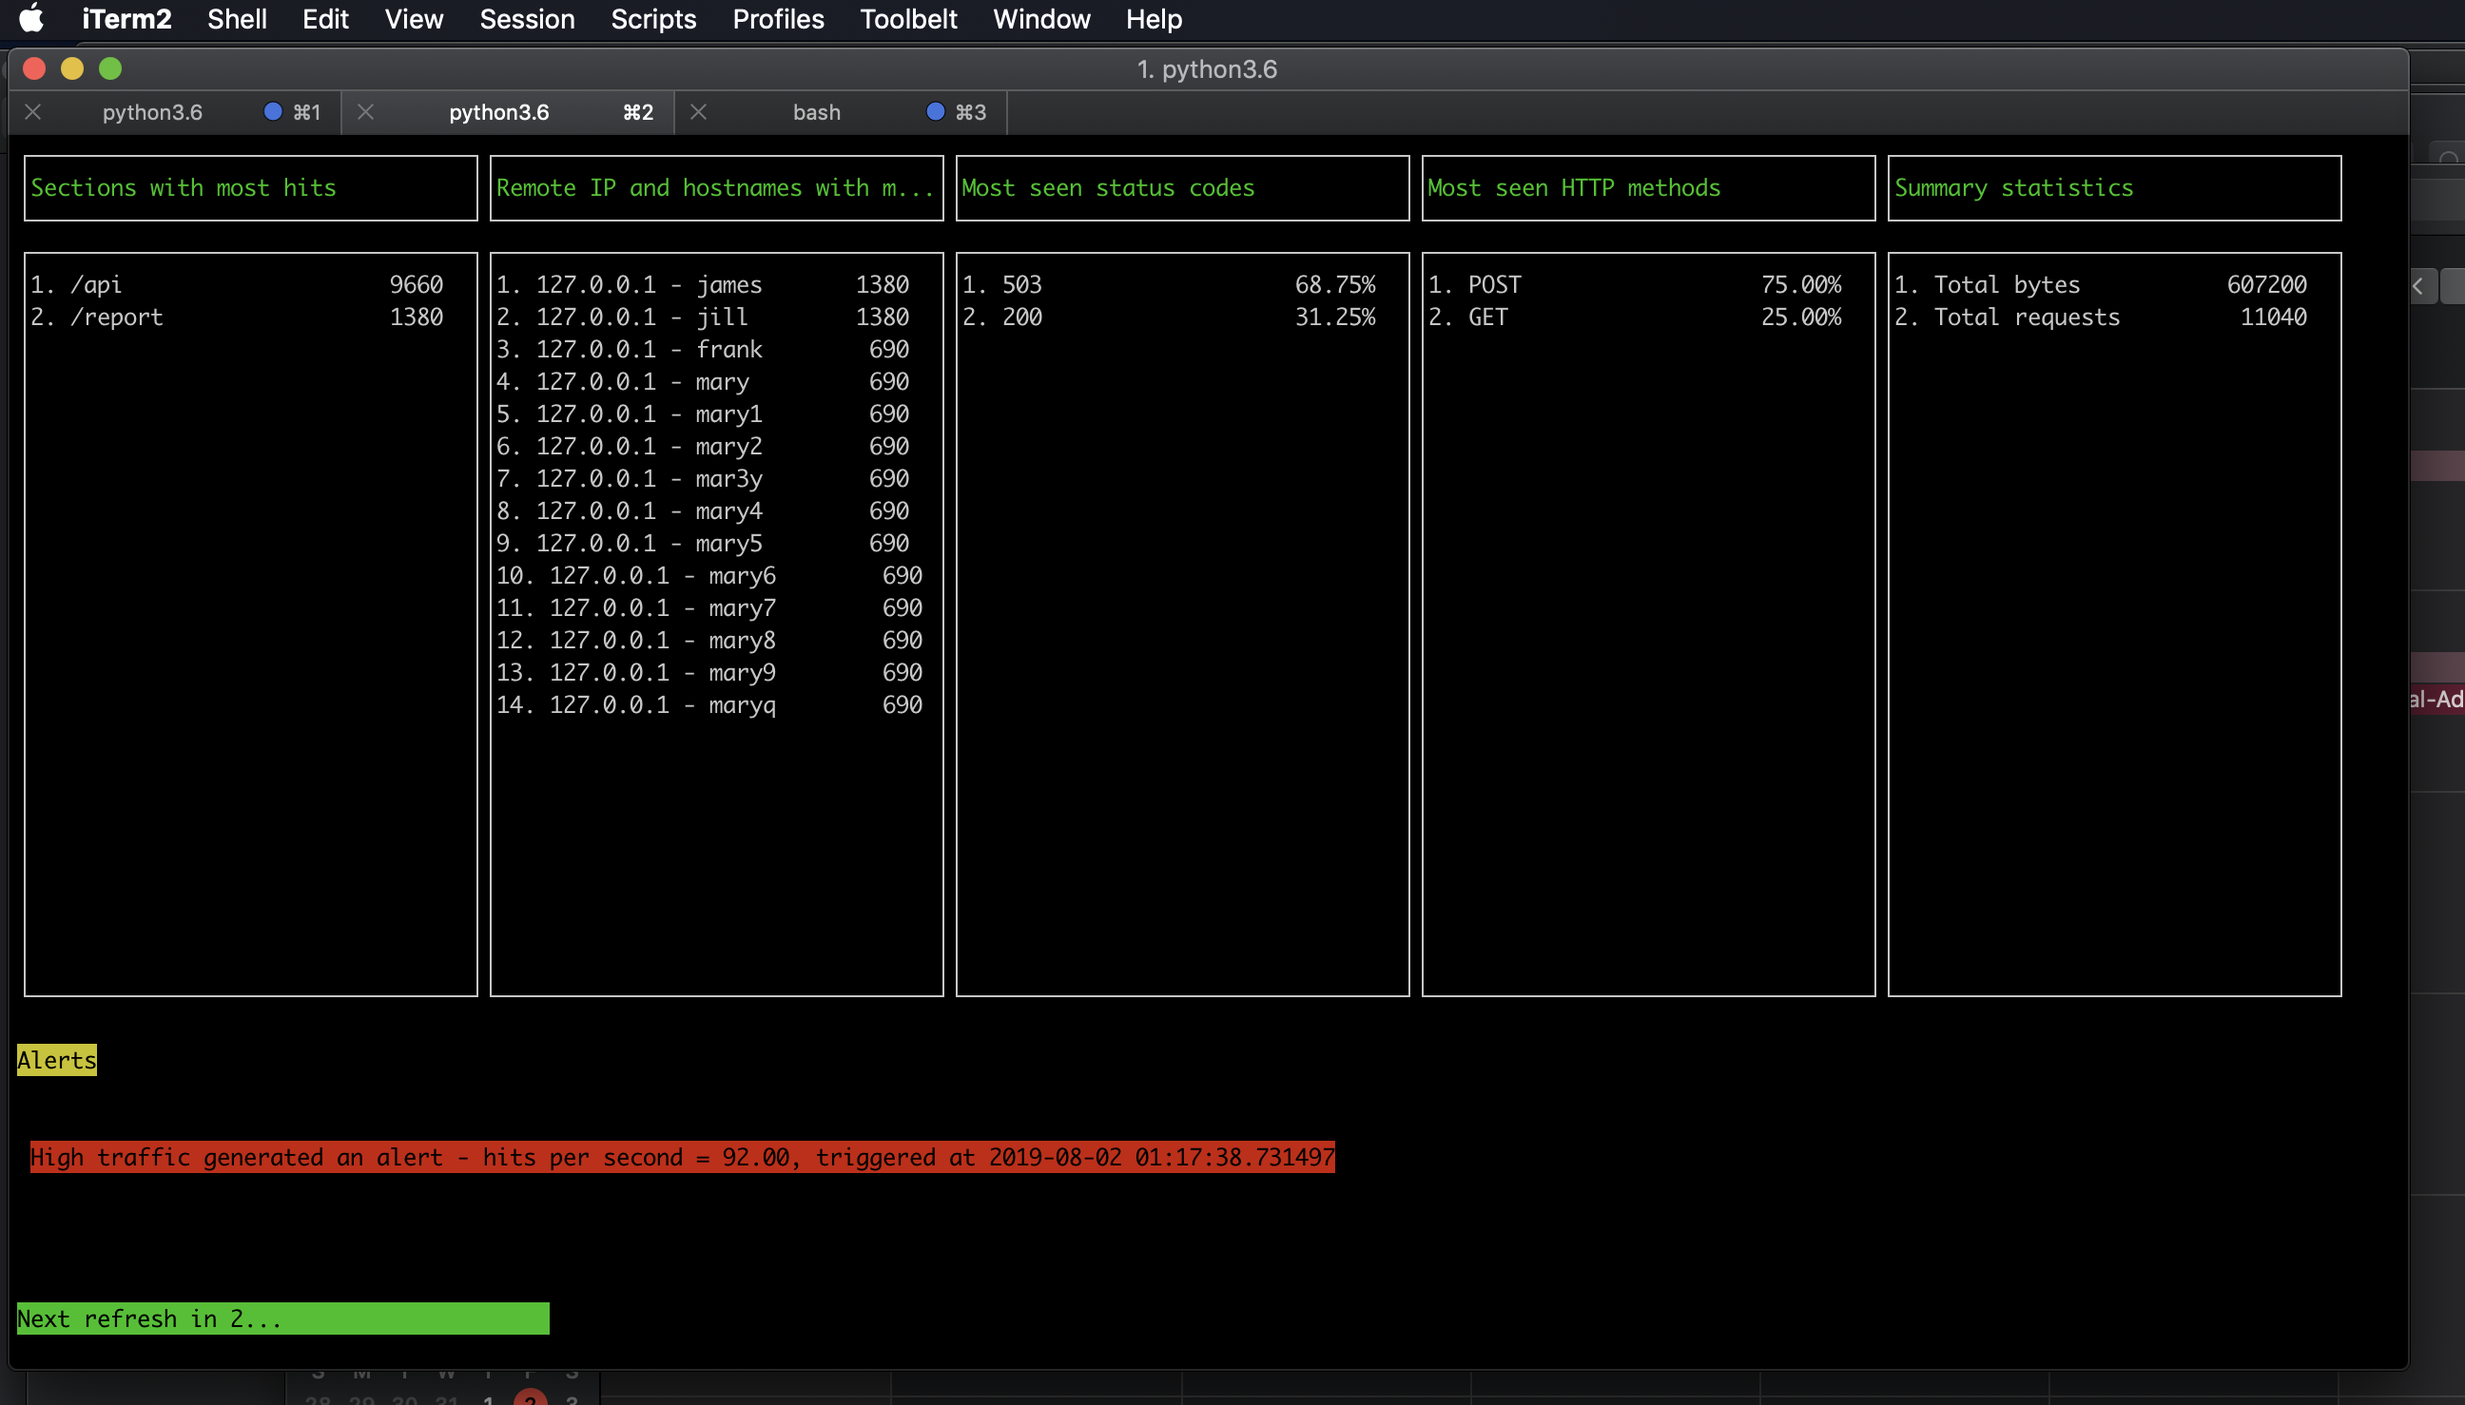
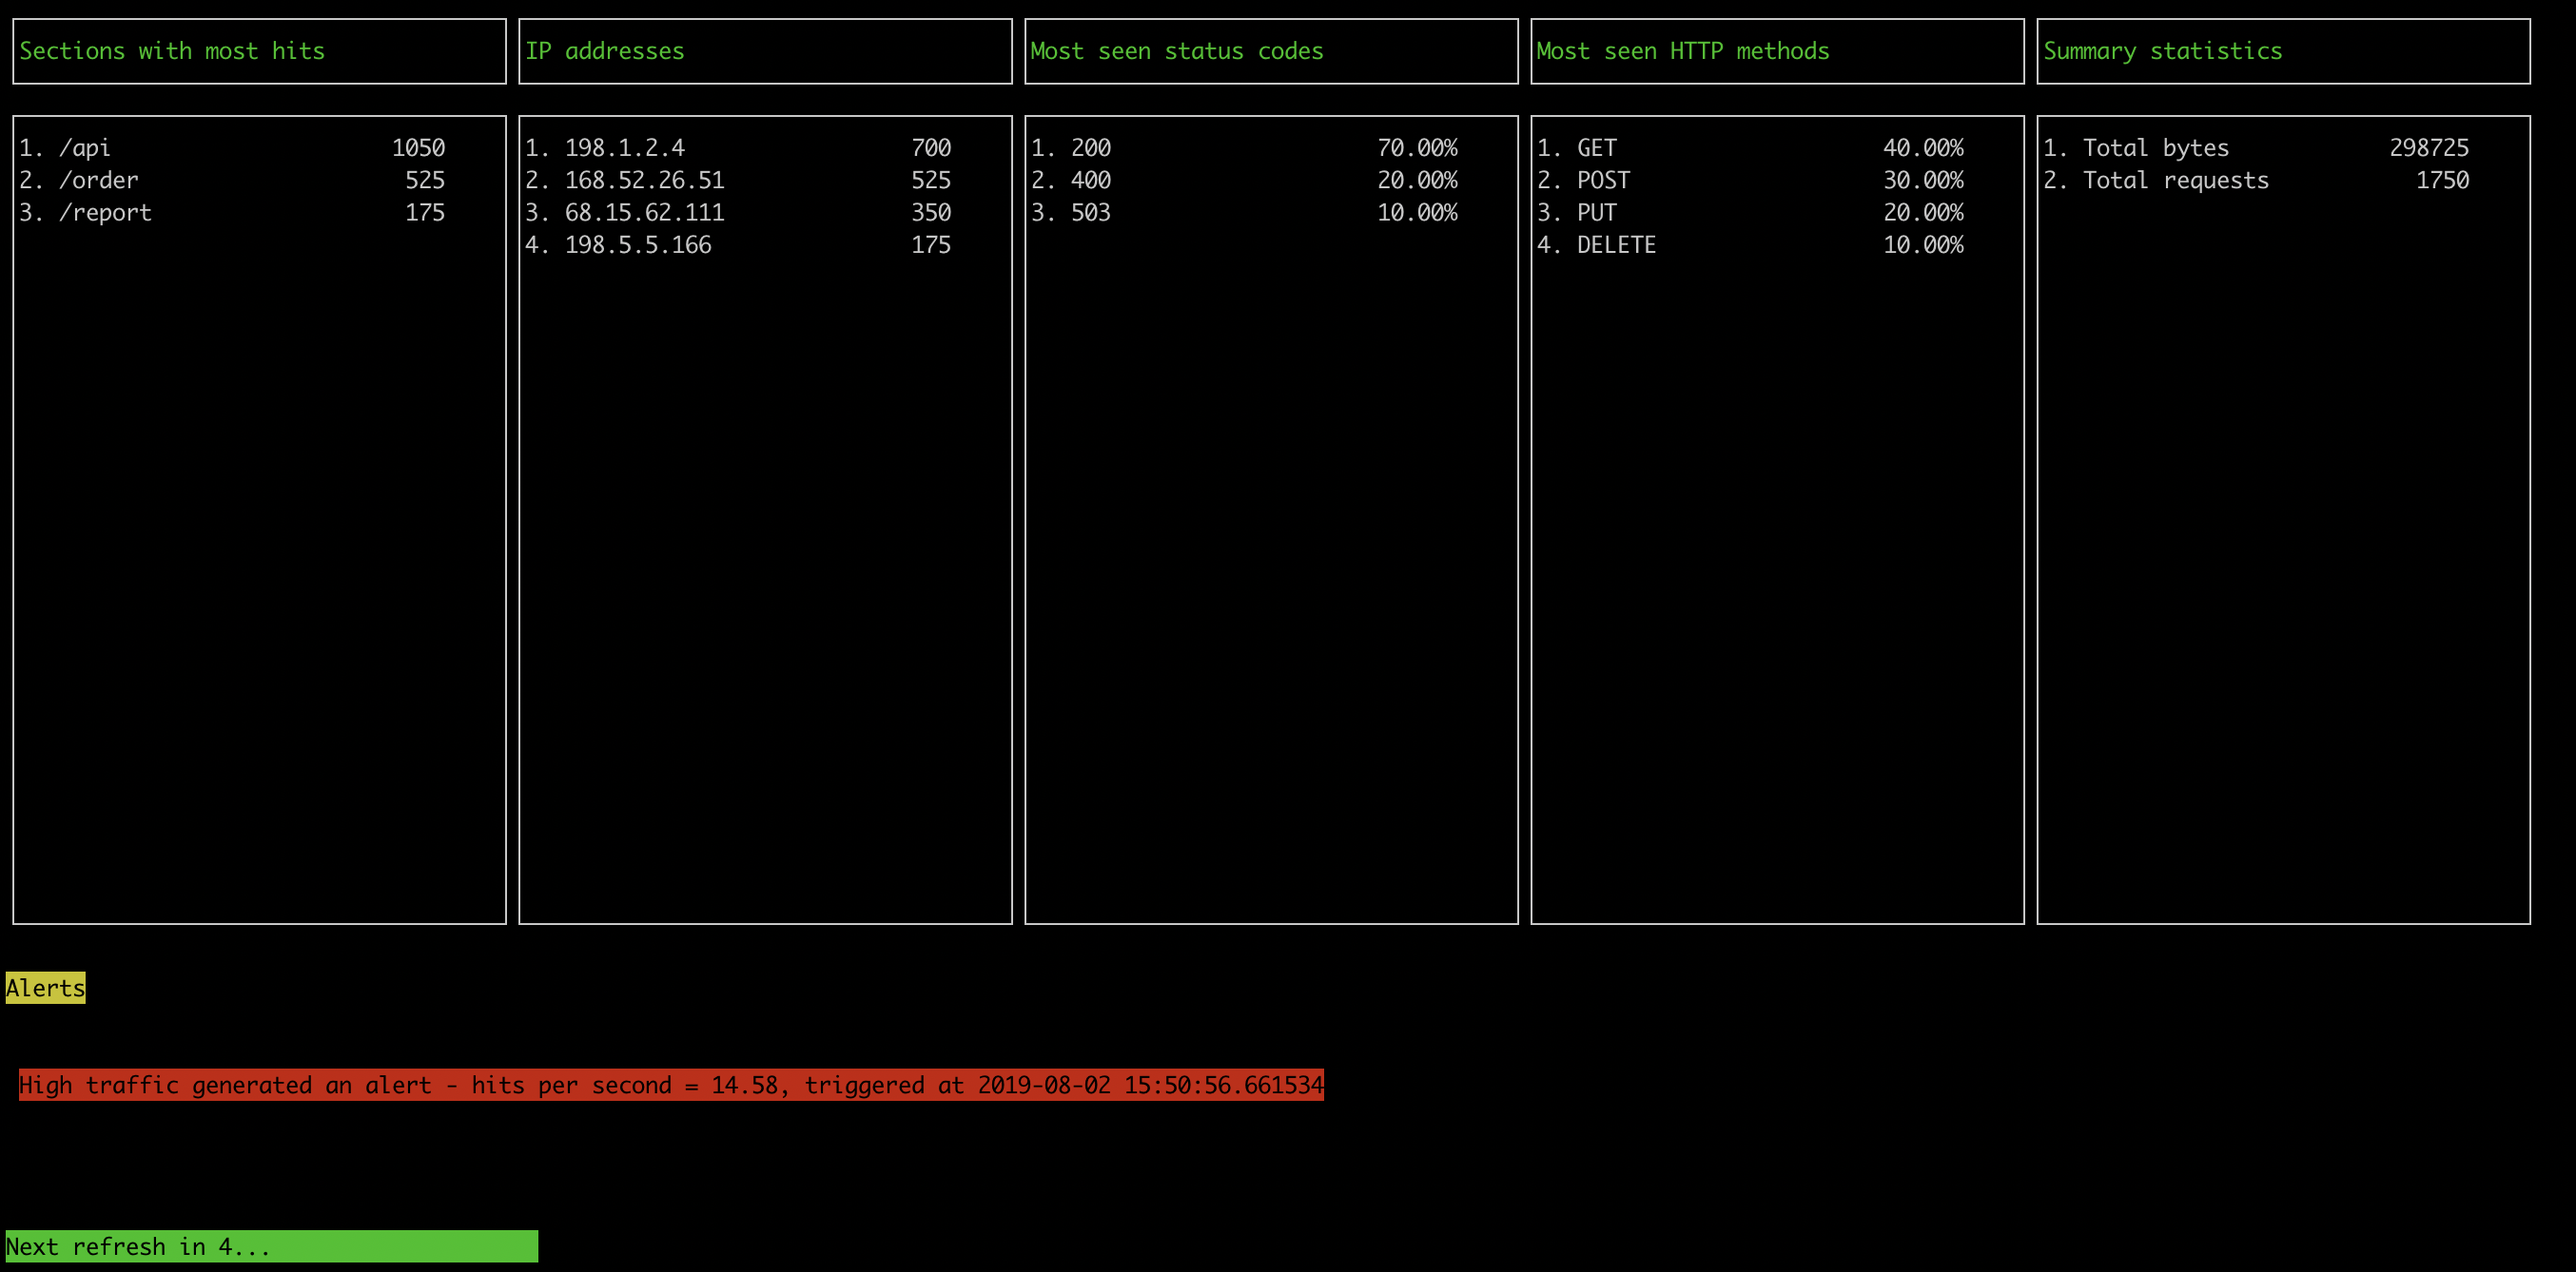
Fixing README, adding unknowns and splitting remotehost-ip_addresses

Changed region(s): [[0.0, 0.0, 1.0, 1.0]]

diff --git a/httpmon/log_process/log_parser.py b/httpmon/log_process/log_parser.py
@@ -2,6 +2,8 @@ import os
 import re
 from datetime import datetime
 
+from httpmon.exceptions import InvalidLogPath
+
 
 class LogParser:
     """Parse a HTTP access log with the format defined in https://www.w3.org/Daemon/User/Config/Logging.html.
@@ -11,8 +13,9 @@ class LogParser:
         127.0.0.1 - jill [09/May/2018:16:00:41 +0000] "GET /api/user HTTP/1.0" 200 234
     """
     regex_expression = (
-        r"(?P<remotehost>(?:(?:25[0-5]|2[0-4][0-9]|[01]?[0-9][0-9]?)\.){3}"
-        r"(?:25[0-5]|2[0-4][0-9]|[01]?[0-9][0-9]?).*\w*) "
+        r"(?P<ip_address>(?:(?:25[0-5]|2[0-4][0-9]|[01]?[0-9][0-9]?)\.){3}"
+        r"(?:25[0-5]|2[0-4][0-9]|[01]?[0-9][0-9]?)) (?:.*) "
+        r"(?P<remotehost>\w*) "
         r"\[(?P<datetime>.*)] "
         r"\"(?P<method>[A-Z]*) (?P<section>/\w*)(?P<subsection>/\w*)?.*\" "
         r"(?P<status_code>\d{3}) "
@@ -21,7 +24,10 @@ class LogParser:
     date_format = '%d/%b/%Y:%H:%M:%S %z'
 
     def __init__(self, file_dir: str):
-        self.file_handler = open(file_dir, 'r')
+        try:
+            self.file_handler = open(file_dir, 'r')
+        except FileNotFoundError:
+            raise InvalidLogPath()
         self.file_handler.seek(0, os.SEEK_END)
         self.regex = re.compile(self.regex_expression)
 

diff --git a/httpmon/data/metrics.py b/httpmon/data/metrics.py
@@ -20,6 +20,8 @@ class MetricOccurences(MetricInterface):
     def add_element(self, log_line):
         if self.metric_key in log_line:
             self.metrics_data[log_line[self.metric_key]] += 1
+        else:
+            self.metrics_data['unknown'] += 1
 
     def get_sorted_data(self):
         return sorted(self.metrics_data.items(), key=lambda x: x[1], reverse=True)
@@ -40,7 +42,9 @@ class MetricPercentage(MetricInterface):
     def add_element(self, log_line):
         if self.metric_key in log_line:
             self.metrics_data[log_line[self.metric_key]] += 1
-            self.total += 1
+        else:
+            self.metrics_data['unknown'] += 1
+        self.total += 1
 
     def get_percentages(self):
         return {key: f'{(value / self.total) * 100:.2f}%' for key, value in self.metrics_data.items()}
@@ -61,10 +65,10 @@ class SectionMetric(MetricOccurences):
         self.metric_key = 'section'
 
 
-class HostMetric(MetricOccurences):
+class IPMetric(MetricOccurences):
     def __init__(self):
-        super(HostMetric, self).__init__()
-        self.metric_key = 'remotehost'
+        super(IPMetric, self).__init__()
+        self.metric_key = 'ip_address'
 
 
 class StatusCodeMetric(MetricPercentage):

diff --git a/httpmon/main.py b/httpmon/main.py
@@ -1,14 +1,18 @@
+import logging
 import sys
 import time
 from typing import List
 
 from httpmon.data import available_metrics
 from httpmon.data.alerts import RequestsAlert
-from httpmon.exceptions import UserEndedSession
+from httpmon.exceptions import InvalidLogPath, UserEndedSession
 from httpmon.log_process.log_aggregator import LogAggregator
 from httpmon.log_process.log_parser import LogParser
 from httpmon.outputs.terminal_ui import TerminalUI
 from httpmon.utils import Counter
+
+logging.basicConfig(level=logging.INFO)
+LOGGER = logging.getLogger(__name__)
 
 
 class HTTPMonCLI:
@@ -18,9 +22,14 @@ class HTTPMonCLI:
             if metric in included_metrics
         }
 
+        try:
+            self.log_file = LogParser(log_dir)
+        except InvalidLogPath:
+            LOGGER.error(f'Invalid log file {log_dir}')
+            sys.exit()
+
         self.counter = Counter(refresh_frequency)
         self.ui = TerminalUI(metrics_with_desc)
-        self.log_file = LogParser(log_dir)
         self.log_aggregator = LogAggregator(included_metrics)
         self.requests_alert = RequestsAlert(max_requests)
 

diff --git a/tests/test_log_parser.py b/tests/test_log_parser.py
@@ -3,9 +3,12 @@ from unittest.mock import MagicMock, patch
 
 import pytest
 
+from httpmon.exceptions import InvalidLogPath
 from httpmon.log_process.log_parser import LogParser
 
-expected_parsed_fields = ['remotehost', 'datetime', 'method', 'section', 'subsection', 'status_code', 'bytes']
+expected_parsed_fields = [
+    'ip_address', 'remotehost', 'datetime', 'method', 'section', 'subsection', 'status_code', 'bytes'
+]
 
 
 class TestLogParser:
@@ -27,6 +30,10 @@ class TestLogParser:
             assert list(line.keys()) == expected_parsed_fields
             assert isinstance(line['datetime'], datetime)
             assert line['section'] == '/fake_section'
+
+    def test_error_file(self):
+        with pytest.raises(InvalidLogPath):
+            LogParser('/fake/dir/access.log')
 
     @patch('httpmon.log_process.log_parser.open')
     @pytest.mark.parametrize('file_content', [

diff --git a/httpmon/data/__init__.py b/httpmon/data/__init__.py
@@ -1,5 +1,5 @@
 from httpmon.data.alerts import RequestsAlert
-from httpmon.data.metrics import (HostMetric, MethodMetric, MetricSummary,
+from httpmon.data.metrics import (IPMetric, MethodMetric, MetricSummary,
                                   SectionMetric, StatusCodeMetric)
 
 available_metrics = {
@@ -7,9 +7,9 @@ available_metrics = {
         'class': SectionMetric,
         'description': 'Sections with most hits',
     },
-    'remotehost': {
-        'class': HostMetric,
-        'description': 'Remote IP and hostnames with most hits',
+    'ip_address': {
+        'class': IPMetric,
+        'description': 'IP addresses',
     },
     'status_code': {
         'class': StatusCodeMetric,

diff --git a/tests/test_metrics.py b/tests/test_metrics.py
@@ -47,7 +47,7 @@ class TestMetricOccurences:
 
         metric.add_element(fake_element)
 
-        assert not metric.metrics_data
+        assert metric.metrics_data == {'unknown': 1}
 
     def test_get_sorted_data(self):
         metric = MetricOccurences()
@@ -152,7 +152,7 @@ class TestMetricPercentage:
 
         metric.add_element(fake_element)
 
-        assert not metric.metrics_data
+        assert metric.metrics_data == {'unknown': 1}
 
     def test_get_percentages(self):
         metric = MetricPercentage()

diff --git a/httpmon/log_process/log_aggregator.py b/httpmon/log_process/log_aggregator.py
@@ -8,7 +8,7 @@ class LogAggregator:
         """Keep track of all the metrics data and aggregates them together.
 
         Params:
-            - included_metrics: list. Example: ['section', 'remotehost', 'summary']
+            - included_metrics: list. Example: ['section', 'ip_address', 'summary']
         """
         self.included_metrics = included_metrics
         self.metrics = self._initialize_metrics()

diff --git a/httpmon/exceptions.py b/httpmon/exceptions.py
@@ -1,2 +1,6 @@
+class InvalidLogPath(Exception):
+    pass
+
+
 class UserEndedSession(Exception):
     pass

diff --git a/README.md b/README.md
@@ -8,11 +8,12 @@ It displays some interesting metrics as most returned sections or most seen IP a
 
 The application was built using Python 3. The terminal graphs are done with the built-in python library [curses](https://docs.python.org/3/library/curses.html).
 
-## Requirements
+## How to run
+
+#### Requirements
 
 - Python 3.6.4
 
-## How to run
 > **WARNING**: It is recommended to run this tool in a terminal in full screen mode, or at least with enough space to make all the panes visible.
 
 HTTPMon can be installed through pip. For this, a virtual environment is recommended.
@@ -50,7 +51,7 @@ Options:
   --refresh-frequency INTEGER  Refresh frequency in seconds.
   --included-metrics TEXT      Comma separated list of displayed metrics.
                                [default:
-                               section,remotehost,status_code,method,summary]
+                               section,ip_address,status_code,method,summary]
   --help                       Show this message and exit.
 ```
 
